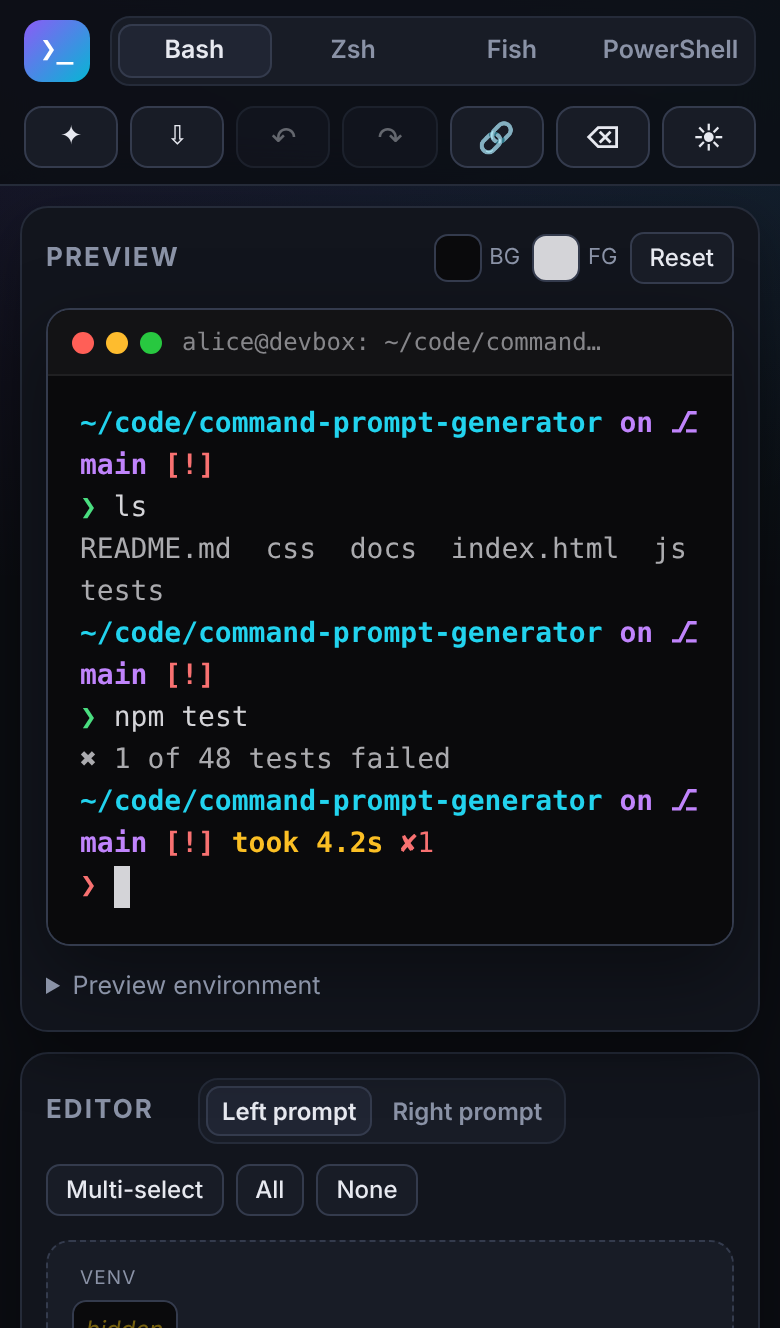
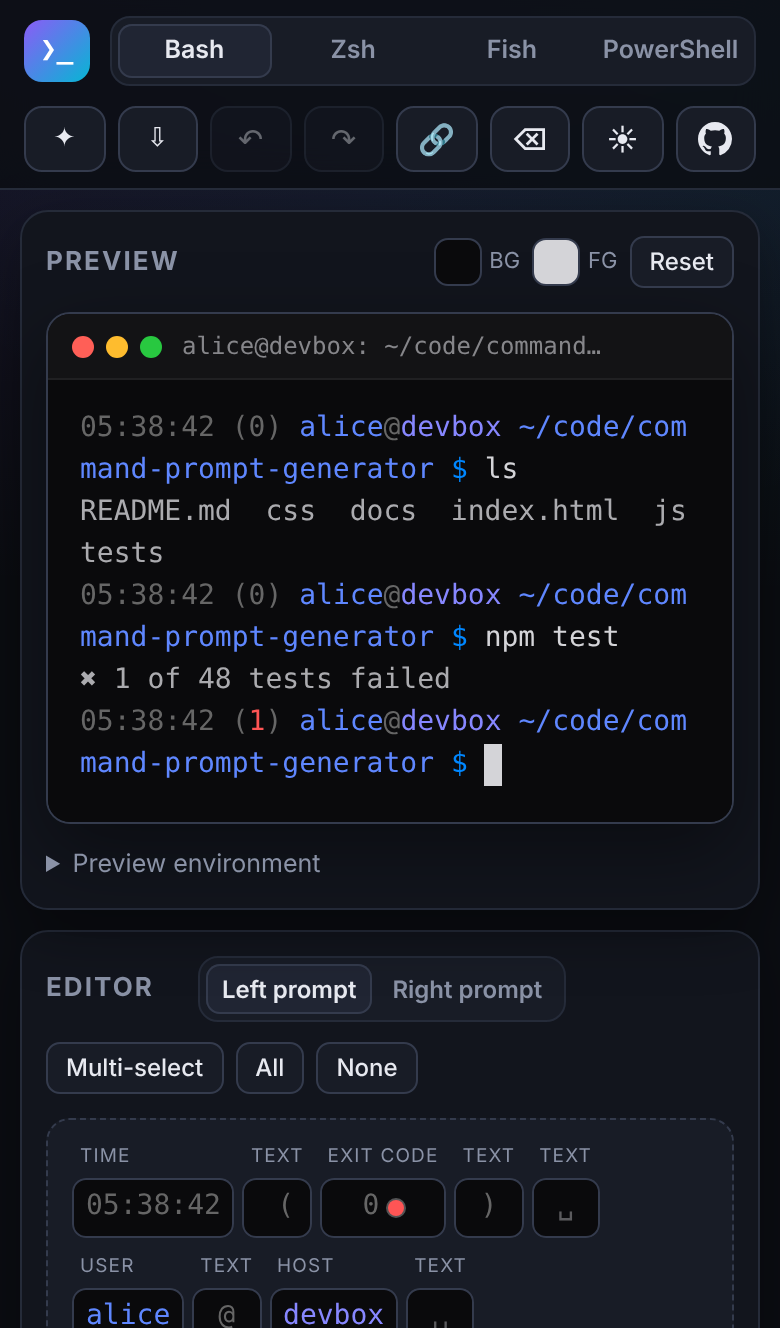
Make the owner's Void prompt the default
Adds the 'Void' preset (muted clock and exit code, then user@host and
path in shades of blue), reproduced exactly from the owner's ps1_Void.env
design, as the first preset and the starting prompt for a first visit
(DEFAULT_PRESET in app.js). Saved work and share links still take
precedence. A test locks the preset to the owner's exact bash PS1.
README, DESIGN.md, CLAUDE.md and screenshots updated.

Claude-Session: https://claude.ai/code/session_01Hu3iQF1CGovCECigrMrcZ5

diff --git a/js/app.js b/js/app.js
@@ -9,6 +9,7 @@
   const STORE_KEY = 'command-prompt-generator:v1';
   const OLD_STORE_KEYS = ['command-prompt-gen:v1', 'prompt-generator:v1']; // earlier names; read so saved work carries over
   const DEFAULT_TERM = { bg: '#0a0a0c', fg: '#d4d4d8' };
+  const DEFAULT_PRESET = 'Void'; // what a first visit (no saved work, no share link) starts with
   // Default preview colors per shell; PowerShell gets the classic Windows PowerShell console blue.
   const SHELL_TERM = { pwsh: { bg: '#012456', fg: '#eeedf0' } };
   function termDefaults(shell) { return Object.assign({}, SHELL_TERM[shell] || DEFAULT_TERM); }
@@ -85,7 +86,7 @@
       if (saved.theme) state.theme = saved.theme;
       if (saved.grad && Array.isArray(saved.grad.stops)) Object.assign(state.grad, saved.grad);
     } else {
-      const p = PG.presets.find((x) => x.name === 'Starship Style') || PG.presets[0];
+      const p = PG.presets.find((x) => x.name === DEFAULT_PRESET) || PG.presets[0];
       const parts = presetParts(p);
       state.elements = M.reid(parts.left);
       state.right = M.reid(parts.right);

diff --git a/tests/run.js b/tests/run.js
@@ -285,6 +285,12 @@ if (shells.length) {
   });
 }
 
+test('the default Void preset is first and still produces the owner\'s exact bash PS1', () => {
+  assert.strictEqual(PG.presets[0].name, 'Void');
+  const ps1 = PG.gen.generate('bash', PG.presets[0].build()).split('\n').find((l) => l.startsWith('PS1='));
+  assert.strictEqual(ps1, "PS1='\\[\\e[0;38;2;102;102;102m\\]\\D{%I:%M:%S} (\\[$(__pg_f1)\\]$(__pg_f2)\\[\\e[0;38;2;102;102;102m\\])\\[\\e[0m\\] \\[\\e[0;38;2;95;135;255m\\]\\u\\[\\e[0;38;2;102;102;102m\\]@\\[\\e[0;38;2;135;135;255m\\]\\h\\[\\e[0m\\] \\[\\e[0;38;2;95;135;255m\\]\\w\\[\\e[0m\\] \\[\\e[0;38;2;0;135;255m\\]\\$\\[\\e[0m\\] '");
+});
+
 console.log('round-trip import');
 const noDesign = (code) => code.split('\n').filter((l) => !l.includes(PG.gen.DESIGN_TAG)).join('\n');
 const bare = (list) => JSON.stringify((list || []).map((e) => { const c = Object.assign({}, e); delete c.id; return c; }));

diff --git a/js/presets.js b/js/presets.js
@@ -12,6 +12,20 @@
   var PL = ''; // powerline right arrow
   var PRESETS = [
     {
+      // The app's default prompt for a first visit (see DEFAULT_PRESET in app.js).
+      name: 'Void',
+      desc: 'Muted clock and exit code, then user@host and path in shades of blue.',
+      build: function () {
+        var g = { fg: '#666666' };
+        return [
+          F('time', g, { fmt: '%I:%M:%S' }), T(' (', g),
+          F('exit', g, { tpl: '{code}', hideOk: false, failFg: '#ff5555', failBg: null }), T(')', g), T(' '),
+          F('user', { fg: '#5f87ff' }), T('@', g), F('host', { fg: '#8787ff' }), T(' '),
+          F('cwd', { fg: '#5f87ff' }), T(' '), F('promptChar', { fg: '#0087ff' }), T(' ')
+        ];
+      }
+    },
+    {
       name: 'Debian Classic',
       desc: 'The familiar green user@host and blue path from Debian/Ubuntu.',
       build: function () {

diff --git a/README.md b/README.md
@@ -30,7 +30,7 @@ It has no dependencies, no build step and no server. Open `index.html` in any mo
 - **Symbols.** Prompt arrows, punctuation, box drawing, Powerline/Nerd Font glyphs (drawn in the preview even without the font) and emoji, plus free text.
 - **Import.** Paste, choose a file, or drag one in (`.txt` or `.env`, up to 1 MB). Give it an existing bash `PS1` or zsh `PROMPT`/`RPROMPT` and it becomes editable. Paste a snippet this app generated (any shell) and it comes back exactly as designed: every snippet carries a one-line `# command-prompt-generator-design:` comment. Older bash/zsh snippets without that line are rebuilt from their helper functions. Understands `\[\e[…m\]`, `\033`, `tput`, `\D{…}`, `$(__git_ps1)`, zsh `%F{…}`/`%B`/`%(?..)`, and oh-my-zsh `$fg[…]`.
 - **Export.** Copy to the clipboard or download as a `.env` file (`prompt-<shell>.env`). Output can be truecolor, 256-color or 16-color ANSI.
-- **17 presets.** Debian, Fedora, Kali, Robby Russell, Pure, Agnoster, Starship-style, Dracula, Nord, Gruvbox, a two-sided prompt, and more.
+- **18 presets.** Void (the default), Debian, Fedora, Kali, Robby Russell, Pure, Agnoster, Starship-style, Dracula, Nord, Gruvbox, a two-sided prompt, and more.
 - **Extras.** Undo/redo, keyboard shortcuts, share links (the prompt is encoded in the URL), dark theme by default with a light theme, and autosave in the browser.
 
 ## Installing as an app

diff --git a/docs/DESIGN.md b/docs/DESIGN.md
@@ -54,7 +54,7 @@ Everything is driven by one ordered list of **elements**:
 | Copy button | Copies the complete snippet (`navigator.clipboard`, with an `execCommand` fallback for `file://`). |
 | Export as text file | "Download .env" saves `prompt-<shell>.env` (plain text). |
 | *(added)* Import from a file | "Choose file…" or drag-and-drop anywhere on the Import dialog. Only `.txt` and `.env` names are accepted (checked in code, not just the picker's filter), up to 1 MB; the file is read locally with `FileReader` and imported straight away, with Undo. A downloaded snippet re-imports exactly via its design line. |
-| About a dozen presets | 17 presets in `js/presets.js`, shown in a gallery that renders each one. |
+| About a dozen presets | 18 presets in `js/presets.js`, shown in a gallery that renders each one. A first visit starts with **Void** (`DEFAULT_PRESET` in `app.js`). |
 | *(added)* Right-side prompt | A Left/Right switch in the editor. Native `RPROMPT` (zsh) and `fish_right_prompt`; emulated in bash and PowerShell (see below). The preview pins it to the right edge of the input line. |
 | *(added)* Command duration | `duration` field with a threshold (seconds), auto or whole-seconds format, and before/after text. The preview shows a fast and a slow command. |
 

diff --git a/CLAUDE.md b/CLAUDE.md
@@ -79,6 +79,7 @@ For UI changes, also drive the page with the preinstalled Playwright/Chromium (o
 - Keyboard shortcuts skip text inputs. Undo/redo still work while a slider, checkbox or button has focus, but editor keys (arrows, Delete) do not.
 - The terminal preview follows the shell's default colors until the user picks their own: near-black, or classic Windows PowerShell blue `#012456`/`#eeedf0` for PowerShell.
 - Import accepts pasted text or `.txt`/`.env` files up to 1 MB (extension checked in code). Download saves `prompt-<shell>.env`.
+- A first visit (no saved work, no share link) starts with the **Void** preset, set by `DEFAULT_PRESET` in `app.js`. It is the owner's own prompt; keep it first in `js/presets.js` and don't restyle it.
 - Inspector for the exit code lists success colors first, then failure colors. Labels follow the pattern "Text color (success)".
 
 ## Workflow
